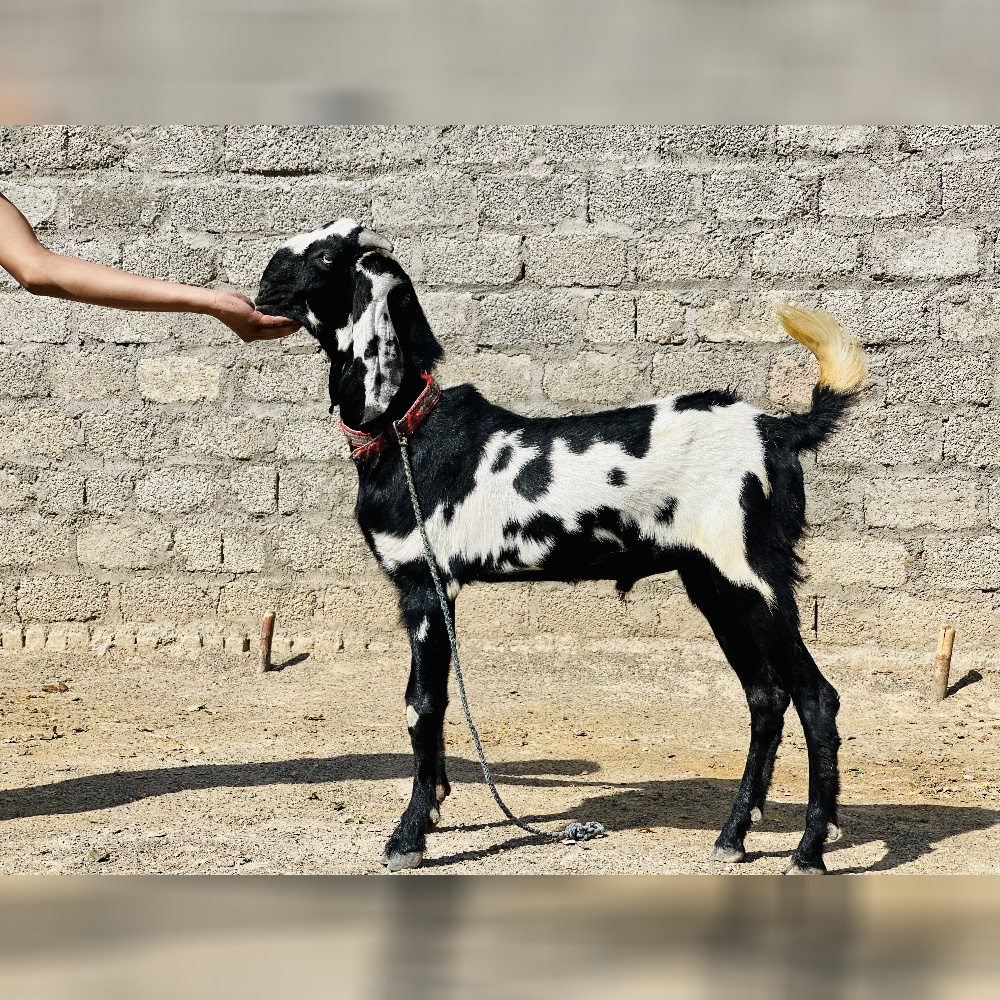
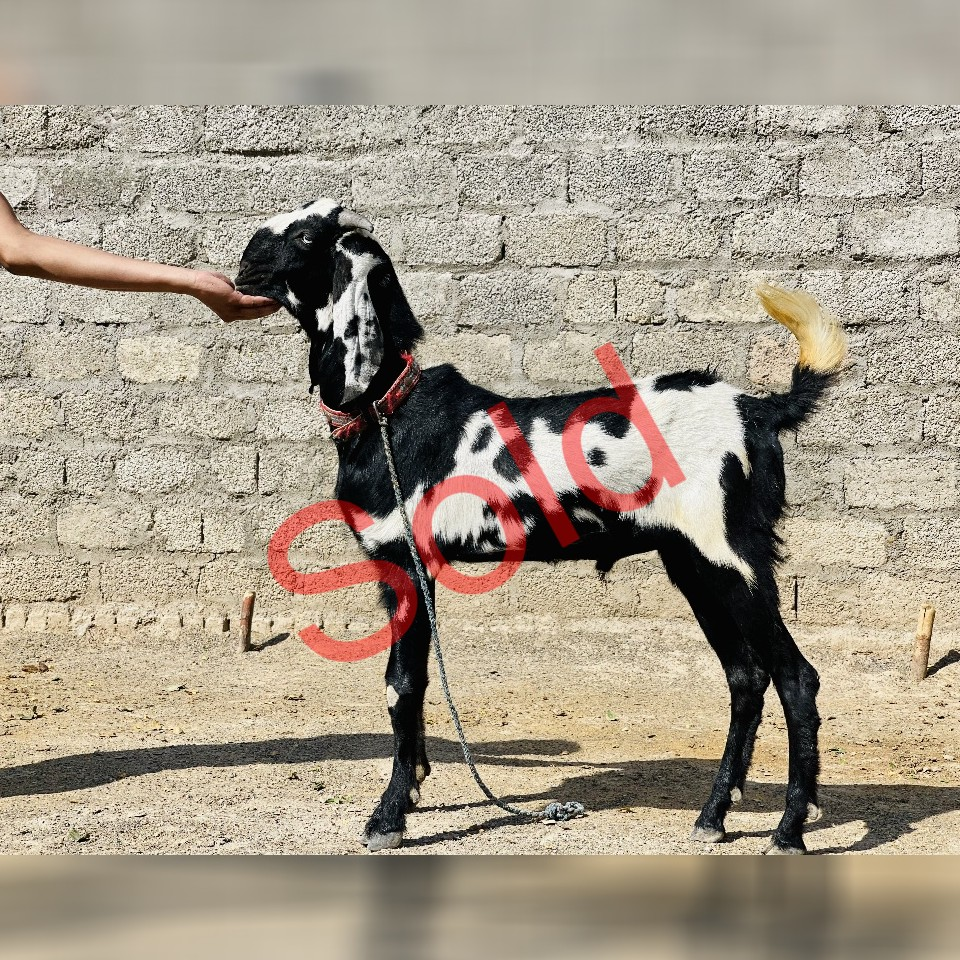
add new goats and sold updates

diff --git a/components/catalogus.tsx b/components/catalogus.tsx
@@ -134,8 +134,8 @@ const goats = [
   },
   {
     code: "G03",
-    show_price : "false",
-    availability: "In stock",
+    show_price : "true",
+    availability: "Sold",
     breed: "Desi",
     category: "Goat",
     imageUrl: "/assets/img/catalogue/goats/103.jpg",
@@ -160,8 +160,8 @@ const goats = [
   },
   {
     code: "G05",
-    show_price : "false",
-    availability: "In stock",
+    show_price : "true",
+    availability: "Sold",
     breed: "Makhi Cheena",
     category: "Goat",
     imageUrl: "/assets/img/catalogue/goats/105.jpg",
@@ -196,7 +196,85 @@ const goats = [
     price: 57000,
     currentWeight: 77,
     expectedWeight: 82,
-  }
+  },
+  {
+    code: "G08",
+    show_price : "true",
+    availability: "Sold",
+    breed: "Talagang",
+    category: "Ram (Chakki Dumba)",
+    imageUrl: "/assets/img/catalogue/goats/108.jpg",
+    color: "White",
+    addOns: "Delivery, Shelter",
+    price: 54000,
+    currentWeight: 67,
+    expectedWeight: 72,
+  },
+  {
+    code: "G09",
+    show_price : "true",
+    availability: "Sold",
+    breed: "Desi",
+    category: "Goat",
+    imageUrl: "/assets/img/catalogue/goats/109.jpg",
+    color: "Black dabba",
+    addOns: "Delivery, Shelter",
+    price: 39000,
+    currentWeight: 42,
+    expectedWeight: 45,
+  },
+  {
+    code: "G10",
+    show_price : "false",
+    availability: "In stock",
+    breed: "Desi",
+    category: "Goat",
+    imageUrl: "/assets/img/catalogue/goats/110.jpg",
+    color: "Black",
+    addOns: "Delivery, Shelter",
+    price: 39000,
+    currentWeight: 42,
+    expectedWeight: 45,
+  },
+  {
+    code: "G11",
+    show_price : "false",
+    availability: "In stock",
+    breed: "Makhi Cheena",
+    category: "Goat",
+    imageUrl: "/assets/img/catalogue/goats/111.jpg",
+    color: "Brown Cheena",
+    addOns: "Delivery, Shelter",
+    price: 49000,
+    currentWeight: 52,
+    expectedWeight: 55,
+  },
+  {
+    code: "G12",
+    show_price : "false",
+    availability: "In stock",
+    breed: "Makhi Cheena",
+    category: "Goat",
+    imageUrl: "/assets/img/catalogue/goats/112.jpg",
+    color: "Brown Cheena",
+    addOns: "Delivery, Shelter",
+    price: 49000,
+    currentWeight: 52,
+    expectedWeight: 55,
+  },
+  {
+    code: "G13",
+    show_price : "false",
+    availability: "In stock",
+    breed: "Desi",
+    category: "Goat",
+    imageUrl: "/assets/img/catalogue/goats/113.jpg",
+    color: "White",
+    addOns: "Delivery, Shelter",
+    price: 39000,
+    currentWeight: 42,
+    expectedWeight: 45,
+  },
 ];
 
 export default function Catalogue() {
